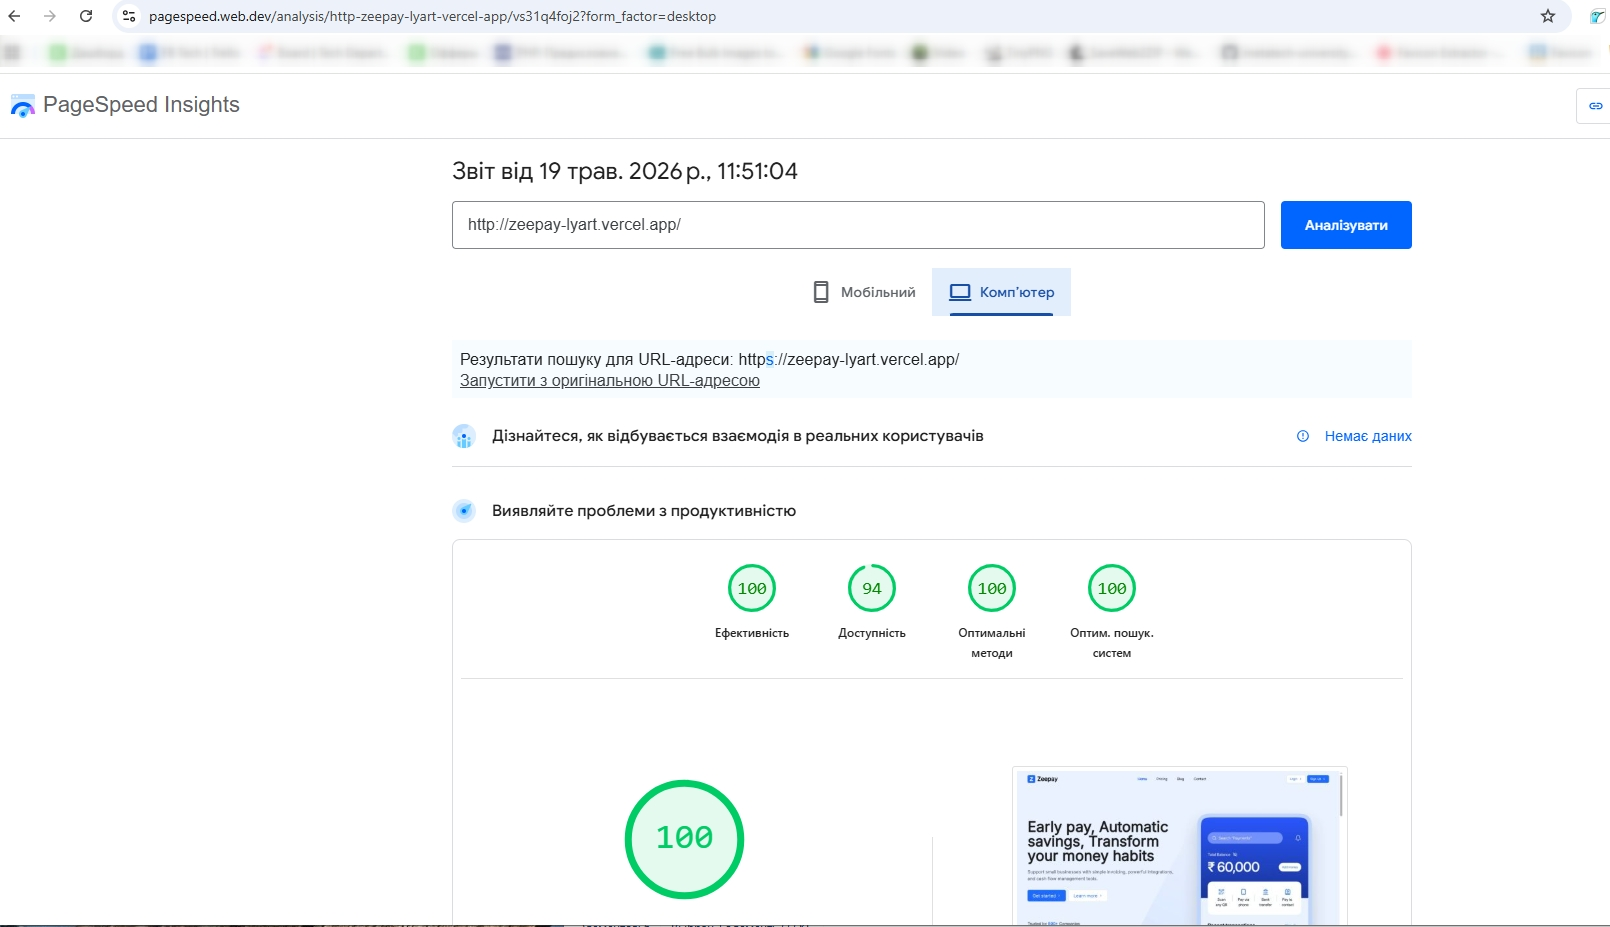
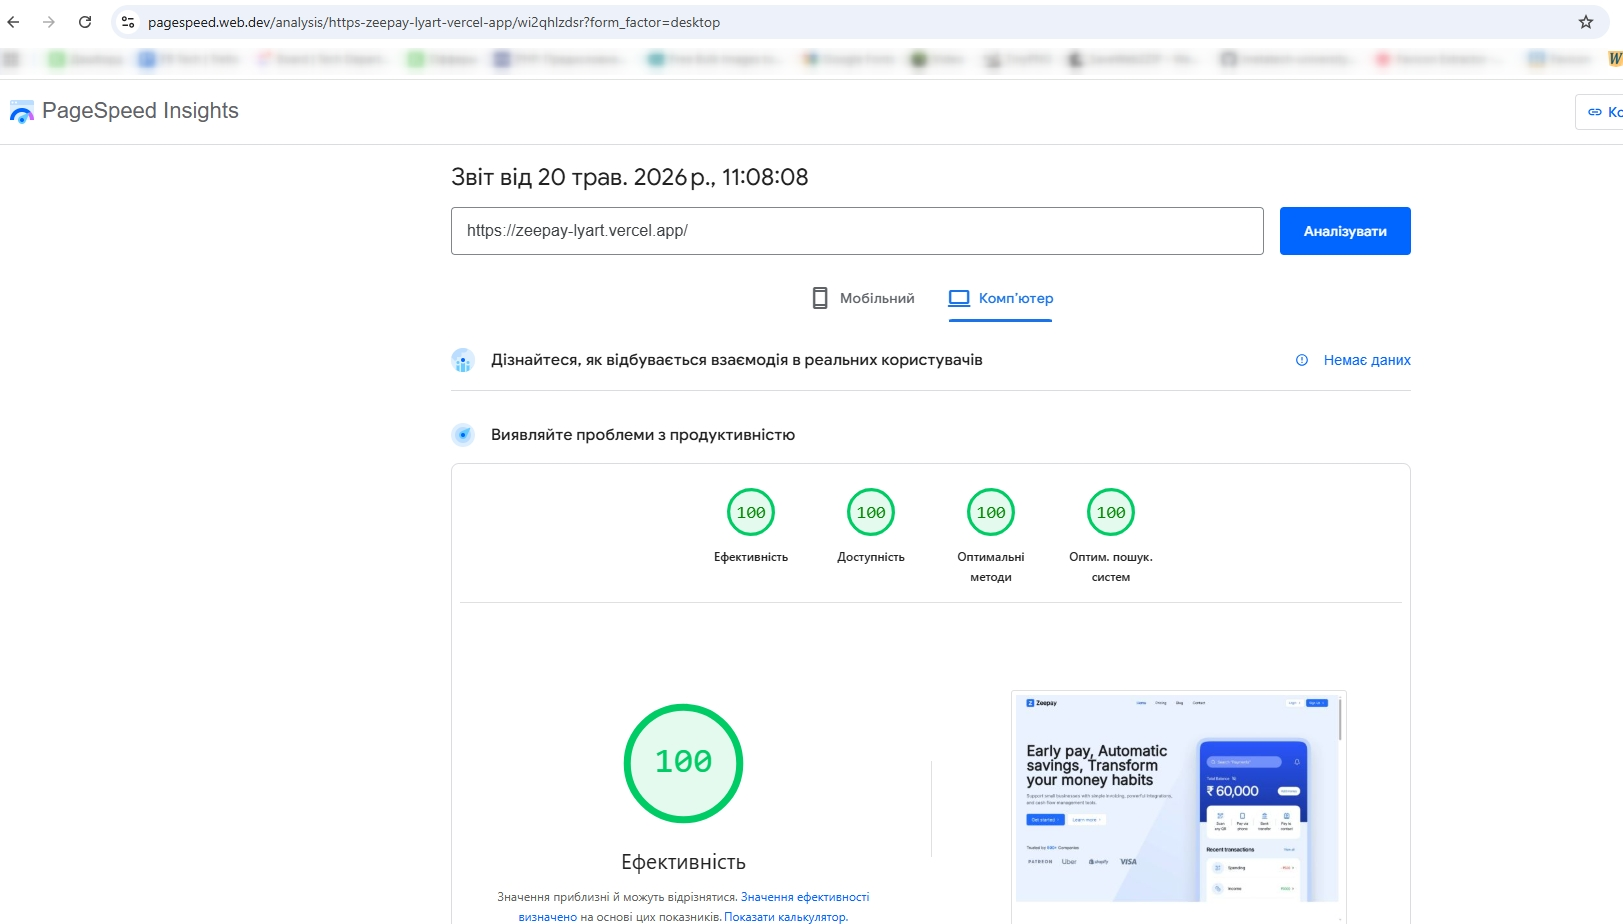
fix review contrast

diff --git a/src/styles/global.css b/src/styles/global.css
@@ -76,7 +76,7 @@ body {
 }
 
 #reviewSwiper .swiper-slide {
-  opacity: 0.4;
+  opacity: 1;
   transform: scale(0.95);
   transition: all 0.3s ease;
 }

diff --git a/README.md b/README.md
@@ -13,7 +13,7 @@ This template is powered by a modern, headless stack: Astro, Tailwind, Daisy UI,
 ## Demo
 
 - ✨ [Live Demo](https://zeepay-lyart.vercel.app/)
-- 💨 [PageSpeed Insights Report](https://pagespeed.web.dev/analysis/http-zeepay-lyart-vercel-app/vs31q4foj2?form_factor=mobile)
+- 💨 [PageSpeed Insights Report](https://pagespeed.web.dev/analysis/https-zeepay-lyart-vercel-app/wi2qhlzdsr?form_factor=desktop)
 - [Sitemap.xml](https://zeepay-lyart.vercel.app/sitemap-index.xml)
 - [Robots.txt](https://zeepay-lyart.vercel.app/robots.txt)
 - [Schema.org validator](https://search.google.com/test/rich-results/result?id=3nVnmyjOUAPsCPLxHaiebg)
@@ -21,7 +21,7 @@ This template is powered by a modern, headless stack: Astro, Tailwind, Daisy UI,
 Features:
 
 - ✅ Minimal styling (make it your own!)
-- ✅ 90+/100 Lighthouse performance
+- ✅ 99+/100 Lighthouse performance
 - ✅ SEO-friendly with canonical URLs and meta tags, Open Graph data, JSON-LD schema and PWA
 - ✅ Sitemap, robots.txt support
 - ✅ Markdown & MDX support
